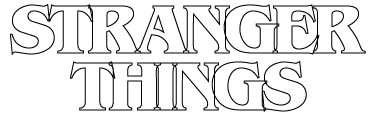
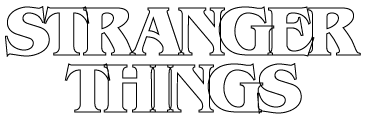
stranger things svg

Changed region(s): [[0.0, 0.0259, 0.9918, 0.9828], [0.9617, 0.0776, 0.9918, 0.1552]]

diff --git a/public/index.html b/public/index.html
@@ -8,6 +8,7 @@
     <meta name="theme-color" content="#000000" />
     <meta name="description" content="Web site created using create-react-app" />
     <link rel="apple-touch-icon" href="%PUBLIC_URL%/logo192.png" />
+    <link href="//db.onlinewebfonts.com/c/3f4943f4e662577a8113309f864540a4?family=ITC+Benguiat" rel="stylesheet" type="text/css"/>
     <!--
       manifest.json provides metadata used when your web app is installed on a
       user's mobile device or desktop. See https://developers.google.com/web/fundamentals/web-app-manifest/

diff --git a/src/component/HomePageBanner.jsx b/src/component/HomePageBanner.jsx
@@ -22,7 +22,7 @@ export default function HomePageBanner() {
       <img src="./assets/banner.png" alt="series banner" class="banner-image moving-up" />
       <img src="./assets/stpotrait.png" alt="series banner" class="banner-image-potrait moving-up" />
       <img
-        src="./assets/strangerthings.png"
+        src="./assets/st.svg"
         alt="series title"
         class="title-image"
       />

diff --git a/src/component/Home.jsx b/src/component/Home.jsx
@@ -16,6 +16,7 @@ export default function Home() {
                 <HomePageCarousel/>
                 <HomePageCarousel/>
                 <HomePageCarousel/>
+                <div style={{marginBottom:"6vh"}}/>
                 <SumplayFooter/>
         </div>
     );

diff --git a/src/css/banner.scss b/src/css/banner.scss
@@ -1,3 +1,5 @@
+@import url("//db.onlinewebfonts.com/c/3f4943f4e662577a8113309f864540a4?family=ITC+Benguiat");
+
 .background {
     background-color: black;
 }
